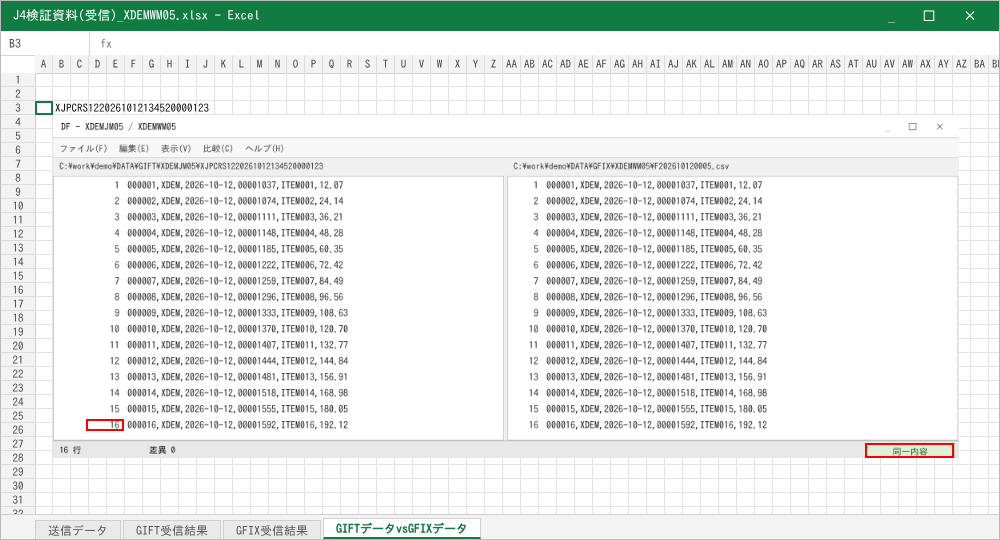
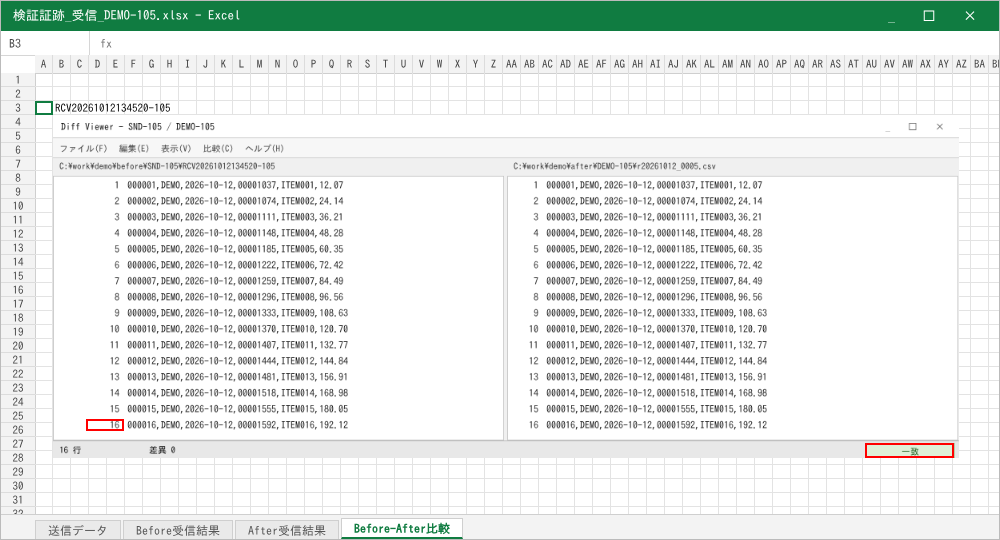
docs(README): demo pictures with a neutral vocabulary -- Before / After, no site names or formats
Every demo picture (the filled sheets, the three GIFs, the dashboard) is
re-rendered with page names, job names, file-name formats, sheet names,
labels and log formats that differ from the site's: a generic transfer-hub
console, a file server, a diff viewer; Before / After instead of the real
system names; DEMO-105 / SND-105 jobs, RCV... transfer names,
r20261012_0005.csv files, a receiver.log with its own line format. The
yellow-row patterns used by the demo change with the log vocabulary; the
geometry still comes from the repo's pure functions. The dashboard demo
runs on a scratch copy of the profile and workflows renamed the same way.
README captions and the changelog follow.

Claude-Session: https://claude.ai/code/session_016ftjUuHfxRRnvL5P7dpVxs

diff --git a/README.md b/README.md
@@ -14,13 +14,13 @@ PowerShell ツールです。対象 PC は Windows 10/11 + PowerShell 5.1 + Exce
 
 受信ジョブ 1 件ごとに、SE が手でやっていたこと：
 
-1. GoAnywhere「完了したジョブ」で該当行を探す → スクリーンショット
-2. Jenkins の data/report から受信ファイルを探してダウンロード
-3. DF で GIFT 側と GFIX 側のファイルを比較 → スクリーンショット
+1. 転送基盤の管理画面（完了ジョブ一覧）で該当行を探す → スクリーンショット
+2. 配信サーバのファイル一覧から受信ファイルを探してダウンロード
+3. 差分ツールで移行前（Before）と移行後（After）のファイルを比較 → スクリーンショット
 4. 証跡 Excel にジョブログを **1 行 1 セル** で貼る → 該当行を **黄色** に塗る（幅も揃える）
-5. GFIXReceive.log から該当ブロックだけ抜き出して貼る → 黄色
-6. Jenkins のスクリーンショットを貼り、受信ファイルの行に **赤枠**
-7. DF キャプチャを貼り、最終行番号と「同一内容」に赤枠
+5. 受信バッチのログから該当ブロックだけ抜き出して貼る → 黄色
+6. ファイル一覧のスクリーンショットを貼り、受信ファイルの行に **赤枠**
+7. 差分ツールのキャプチャを貼り、最終行番号と「一致」に赤枠
 8. 進捗を CSV に記録、レビュー依頼
 
 1 件あたり約 0.3 人日。黄色の幅がずれる、赤枠が 1 行ずれる、貼り忘れ――
@@ -28,22 +28,23 @@ PowerShell ツールです。対象 PC は Windows 10/11 + PowerShell 5.1 + Exce
 
 ### After：1 コマンドで証跡ブックができる
 
-![自動で作られた GFIX受信結果 シート：ジョブログの貼り付け、黄色マーカー、Jenkins 画面への赤枠（架空データ）](docs/images/gfix-recv-evidence-sheet1.png)
+![自動で作られた After受信結果 シート：ジョブログの貼り付け、黄色マーカー、ファイル一覧画面への赤枠（架空データ）](docs/images/gfix-recv-evidence-sheet1.png)
 
-ジョブログの貼り付け、黄色マーカー（幅は文字数 ÷ 3 列で計算）、GFIXReceive.log の
-START..END 抜き出し、Jenkins 画面の挿入と受信ファイル行への赤枠――ここまでを
+ジョブログの貼り付け、黄色マーカー（幅は文字数 ÷ 3 列で計算）、受信バッチログの
+START..END 抜き出し、ファイル一覧画面の挿入と受信ファイル行への赤枠――ここまでを
 ツールが行い、SE は最後に Excel を目で見て Enter を押すだけです。
 
-![左：内部システムの画面、右：証跡 Excel。絞り込み → 該当行の特定とキャプチャ → ジョブログ取得 → Excel へ自動貼り付け → 該当行が黄色に → 幅の拡大 → Jenkins 行の赤枠（架空データ・模擬画面）](docs/images/gfix-recv-zoom.gif)
+![左：内部システムの画面、右：証跡 Excel。絞り込み → 該当行の特定とキャプチャ → ジョブログ取得 → Excel へ自動貼り付け → 該当行が黄色に → 幅の拡大 → ファイル一覧行の赤枠（架空データ・模擬画面）](docs/images/gfix-recv-zoom.gif)
 
 左が内部システム（模擬）、右が証跡 Excel（模擬）。絞り込み・該当行の特定・キャプチャ・
 ジョブログの取得・貼り付け・黄色・赤枠まで、人がキーボードに触るところはありません。
 
 ![毎ジョブの 3 画面から、証跡 Excel が埋まるまで（架空データ・模擬画面）](docs/images/gfix-recv-evidence.gif)
 
-![GIFTデータvsGFIXデータ シート：DF キャプチャと、最終行番号・「同一内容」への赤枠](docs/images/gfix-recv-evidence-sheet2.png)
+![Before-After比較 シート：差分ツールのキャプチャと、最終行番号・「一致」への赤枠](docs/images/gfix-recv-evidence-sheet2.png)
 
-> 画像はすべて **架空データ・模擬画面** です（社内画面や実際の証跡は載せていません）。
+> 画像はすべて **架空データ・模擬画面** です。画面の名前、ジョブ名、ファイル名、ログの書式も
+> 実案件とは別のものに置き換えてあります（社内画面や実際の証跡は載せていません）。
 > CI 環境（Linux, PowerShell 7）には Excel がないため、Excel を操作する実装と
 > **同じ純粋関数**（黄色の幅 `Get-EbiHighlightEndColumn`、赤枠の位置
 > `Get-EbiListEntryRects` / `Resolve-EbiAnchoredRect`、ログの切り出し
@@ -118,19 +119,20 @@ declarative workflow engine `ebi` (`ebi.ps1`, `kernel/`, `modules/`,
 `workflows/`, `profiles/`): GFIX receive verification. Per received job the
 operator used to screenshot three internal pages, paste a job log into the
 evidence workbook one line per cell, paint the right lines yellow (at the
-right width), cut the matching block out of a batch log, paste a Jenkins
+right width), cut the matching block out of a batch log, paste a file-list
 screenshot and draw a red box on the received file's row, then do the same
-for the DF file comparison. That is now one command and a final glance.
+for the diff-tool comparison. That is now one command and a final glance.
 
-![The GFIX受信結果 sheet as the tool fills it: job log pasted, yellow marks, GFIXReceive.log block, Jenkins screenshot with the red box (fictional data)](docs/images/gfix-recv-evidence-sheet1.png)
+![The After受信結果 sheet as the tool fills it: job log pasted, yellow marks, receiver log block, file-list screenshot with the red box (fictional data)](docs/images/gfix-recv-evidence-sheet1.png)
 
-![Left: the internal page, right: the evidence workbook. Filter, find the row, snap, get the job log, paste it, the target lines turn yellow, zoom on the width, the Jenkins red box (fictional data, mock pages)](docs/images/gfix-recv-zoom.gif)
+![Left: the internal page, right: the evidence workbook. Filter, find the row, snap, get the job log, paste it, the target lines turn yellow, zoom on the width, the file-list red box (fictional data, mock pages)](docs/images/gfix-recv-zoom.gif)
 
 ![From the three internal pages to the filled workbook (fictional data, mock pages)](docs/images/gfix-recv-evidence.gif)
 
-![The GIFTデータvsGFIXデータ sheet: the DF capture with boxes on the last line number and the 同一内容 cell](docs/images/gfix-recv-evidence-sheet2.png)
+![The Before-After比較 sheet: the diff-tool capture with boxes on the last line number and the 一致 cell](docs/images/gfix-recv-evidence-sheet2.png)
 
-*Every picture is fictional data on mock pages. The CI container has no
+*Every picture is fictional data on mock pages, with the page names, job
+names, file names and log formats changed from the real site's. The CI container has no
 Excel, so the pictures are drawn in HTML from the output of the same pure
 functions the Excel steps call: `Get-EbiHighlightEndColumn` for the yellow
 width (characters / 3 columns, measured on the delivered sample),
@@ -355,24 +357,25 @@ end of day →  Export-DailyPatch.ps1  → clipboard → commit from home
 
 ### 之前的重复劳动
 
-每接收一个作业，SE 要手工做：在 GoAnywhere 里找到那一行并截图；在 Jenkins 的
-文件一览里找到接收文件并下载；用 DF 比较 GIFT 侧和 GFIX 侧的文件并截图；把作业日志
-**一行一格**贴进证据 Excel，把关键行**涂黄**（宽度还得对齐）；从 GFIXReceive.log 里
-只抠出这一次传输的块再贴、再涂黄；贴 Jenkins 截图并在接收文件那一行**画红框**；贴 DF
-截图并在最后一行行号和「同一内容」上画红框；最后在 CSV 里记进度。每件约 0.3 人日，
+每接收一个作业，SE 要手工做：在传输平台的管理页面里找到那一行并截图；在分发服务器的
+文件一览里找到接收文件并下载；用差分工具比较迁移前（Before）和迁移后（After）的文件并截图；把作业日志
+**一行一格**贴进证据 Excel，把关键行**涂黄**（宽度还得对齐）；从接收批处理的日志里
+只抠出这一次传输的块再贴、再涂黄；贴文件一览截图并在接收文件那一行**画红框**；贴差分
+截图并在最后一行行号和「一致」上画红框；最后在 CSV 里记进度。每件约 0.3 人日，
 而评审打回来的，多半就是黄条宽度、红框错行、漏贴这些。
 
 ### 之后：一条命令生成证据工作簿
 
-![工具自动填好的 GFIX受信結果 工作表：日志、黄标、Jenkins 截图上的红框（虚构数据）](docs/images/gfix-recv-evidence-sheet1.png)
+![工具自动填好的 After受信結果 工作表：日志、黄标、文件一览截图上的红框（虚构数据）](docs/images/gfix-recv-evidence-sheet1.png)
 
-![左：内部系统页面，右：证据 Excel。筛选 → 定位行并截图 → 取作业日志 → 自动贴入 Excel → 目标行变黄 → 放大看宽度 → Jenkins 行红框（虚构数据、模拟页面）](docs/images/gfix-recv-zoom.gif)
+![左：内部系统页面，右：证据 Excel。筛选 → 定位行并截图 → 取作业日志 → 自动贴入 Excel → 目标行变黄 → 放大看宽度 → 文件一览行红框（虚构数据、模拟页面）](docs/images/gfix-recv-zoom.gif)
 
 ![从三个内部系统页面到填好的 Excel（虚构数据、模拟页面）](docs/images/gfix-recv-evidence.gif)
 
-![GIFTデータvsGFIXデータ 工作表：DF 截图，以及最后一行行号和「同一内容」上的红框](docs/images/gfix-recv-evidence-sheet2.png)
+![Before-After比較 工作表：差分工具截图，以及最后一行行号和「一致」上的红框](docs/images/gfix-recv-evidence-sheet2.png)
 
-> 所有图片都是**虚构数据和模拟页面**。CI 环境（Linux、PowerShell 7）没有 Excel，
+> 所有图片都是**虚构数据和模拟页面**，页面名、作业名、文件名、日志格式也都换成了与实际现场
+> 不同的写法。CI 环境（Linux、PowerShell 7）没有 Excel，
 > 所以图是用 HTML 画的，但黄条宽度、红框位置、日志切块都来自操作 Excel 的实现
 > 所调用的**同一批纯函数**（`Get-EbiHighlightEndColumn`、`Get-EbiListEntryRects`、
 > `Resolve-EbiAnchoredRect`、`Get-EbiLogBlocks`）。

diff --git a/CHANGELOG.md b/CHANGELOG.md
@@ -46,8 +46,10 @@
   width, the Jenkins red box), a GIF from the three internal pages to the
   filled sheets (`gfix-recv-evidence.gif`) and the DF sheet
   (`...-sheet2.png`). All of
-  it is fictional data on mock pages (GoAnywhere list, Jenkins data/report,
-  DF window drawn in HTML); the CI container has no Excel, so the sheets
+  it is fictional data on mock pages (a transfer-hub job list, a file-server
+  listing, a diff window, drawn in HTML), with the page names, job names,
+  file-name formats, sheet names and log formats changed from the site's
+  (Before / After instead of the real system names); the CI container has no Excel, so the sheets
   are HTML drawn from the output of the SAME pure functions the Excel steps
   call (`Get-EbiHighlightEndColumn`, `Get-EbiListEntryRects`,
   `Resolve-EbiAnchoredRect`, `Get-EbiLogBlocks`) on the shipped
